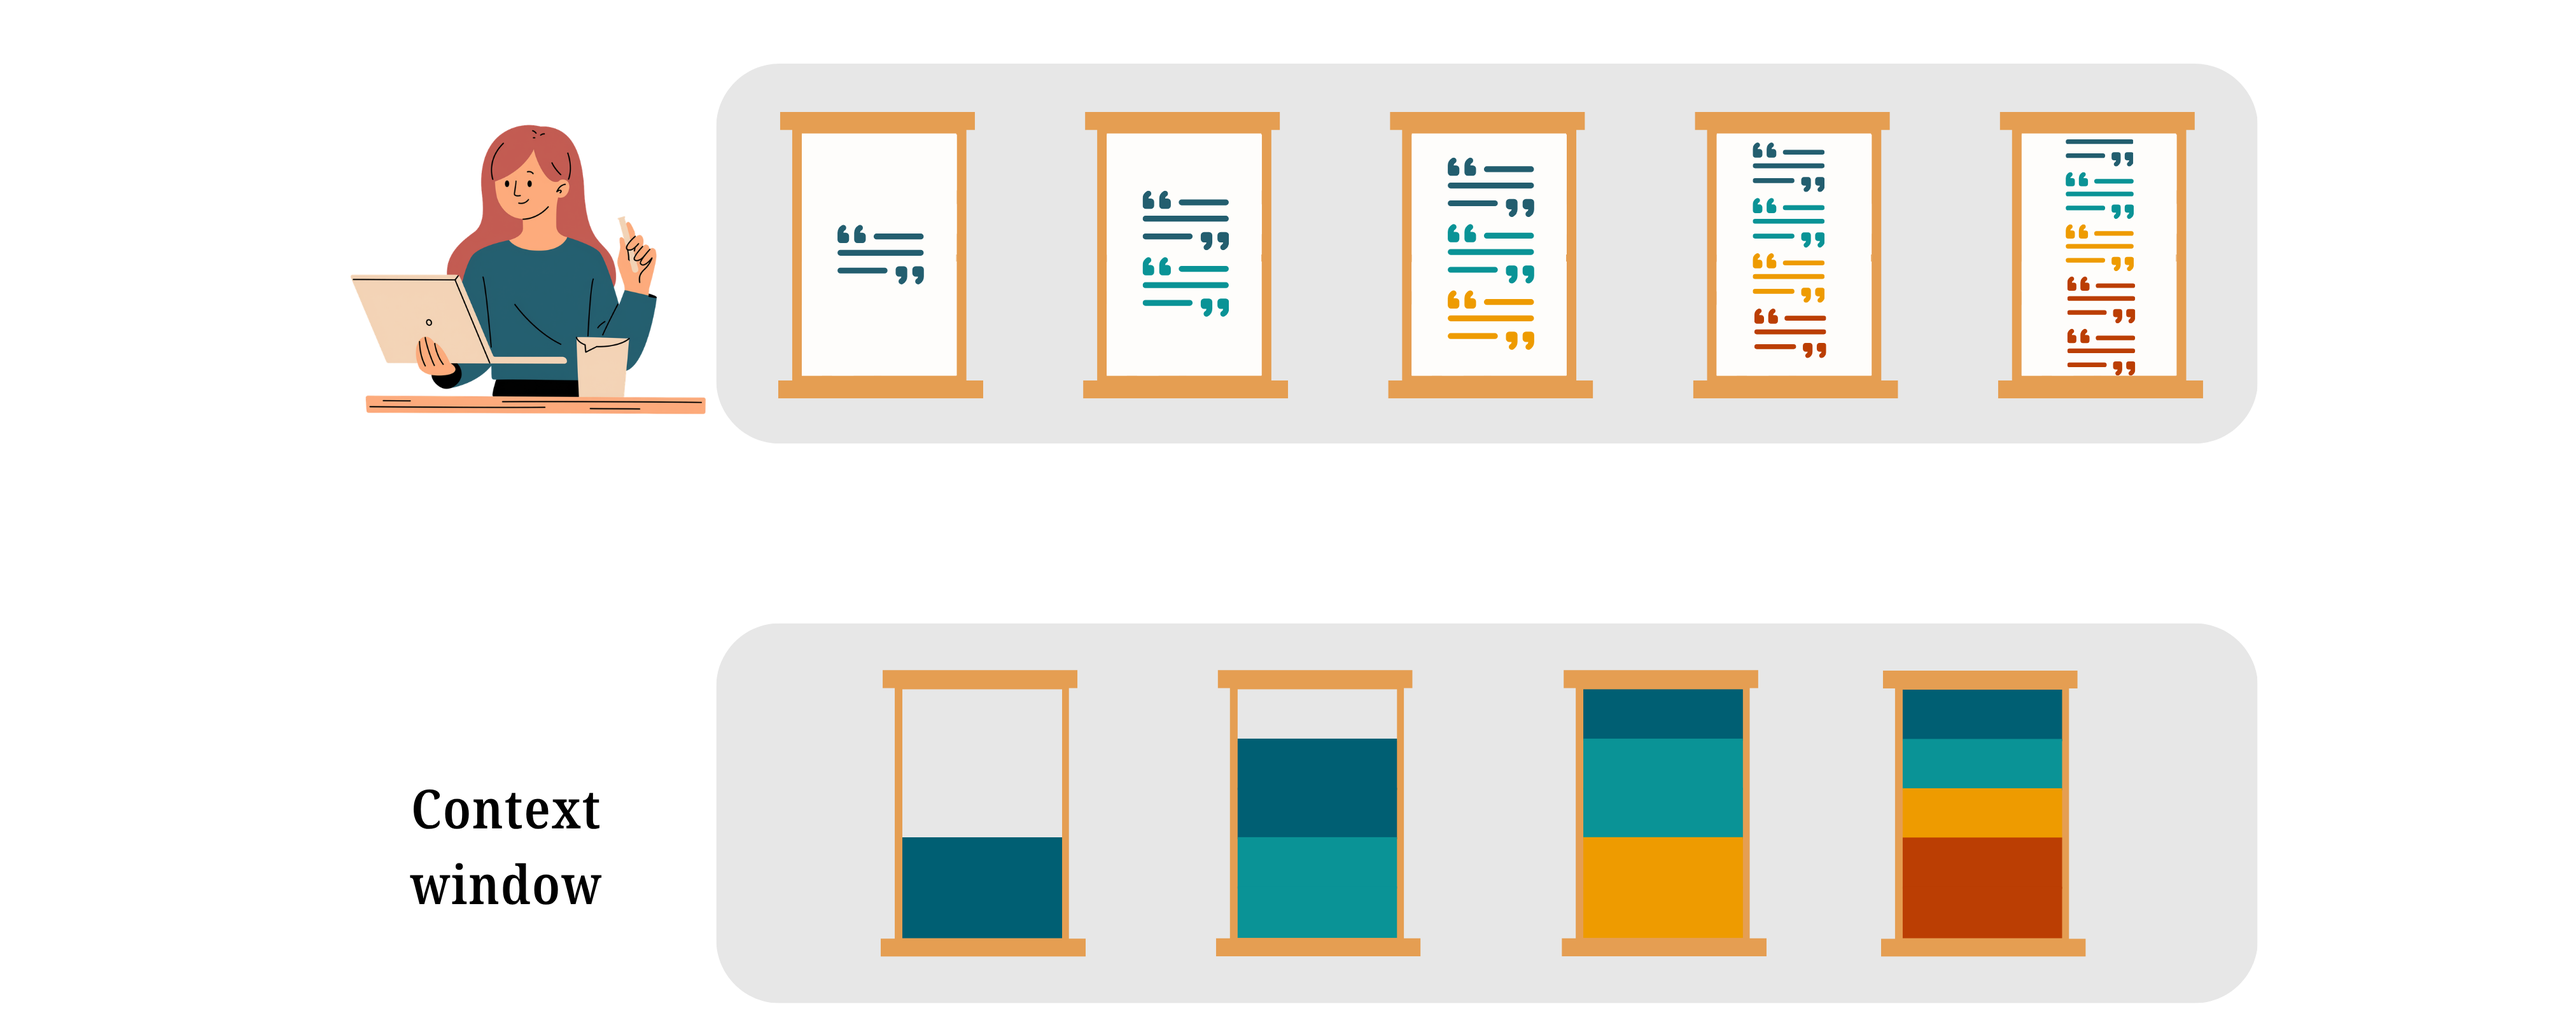
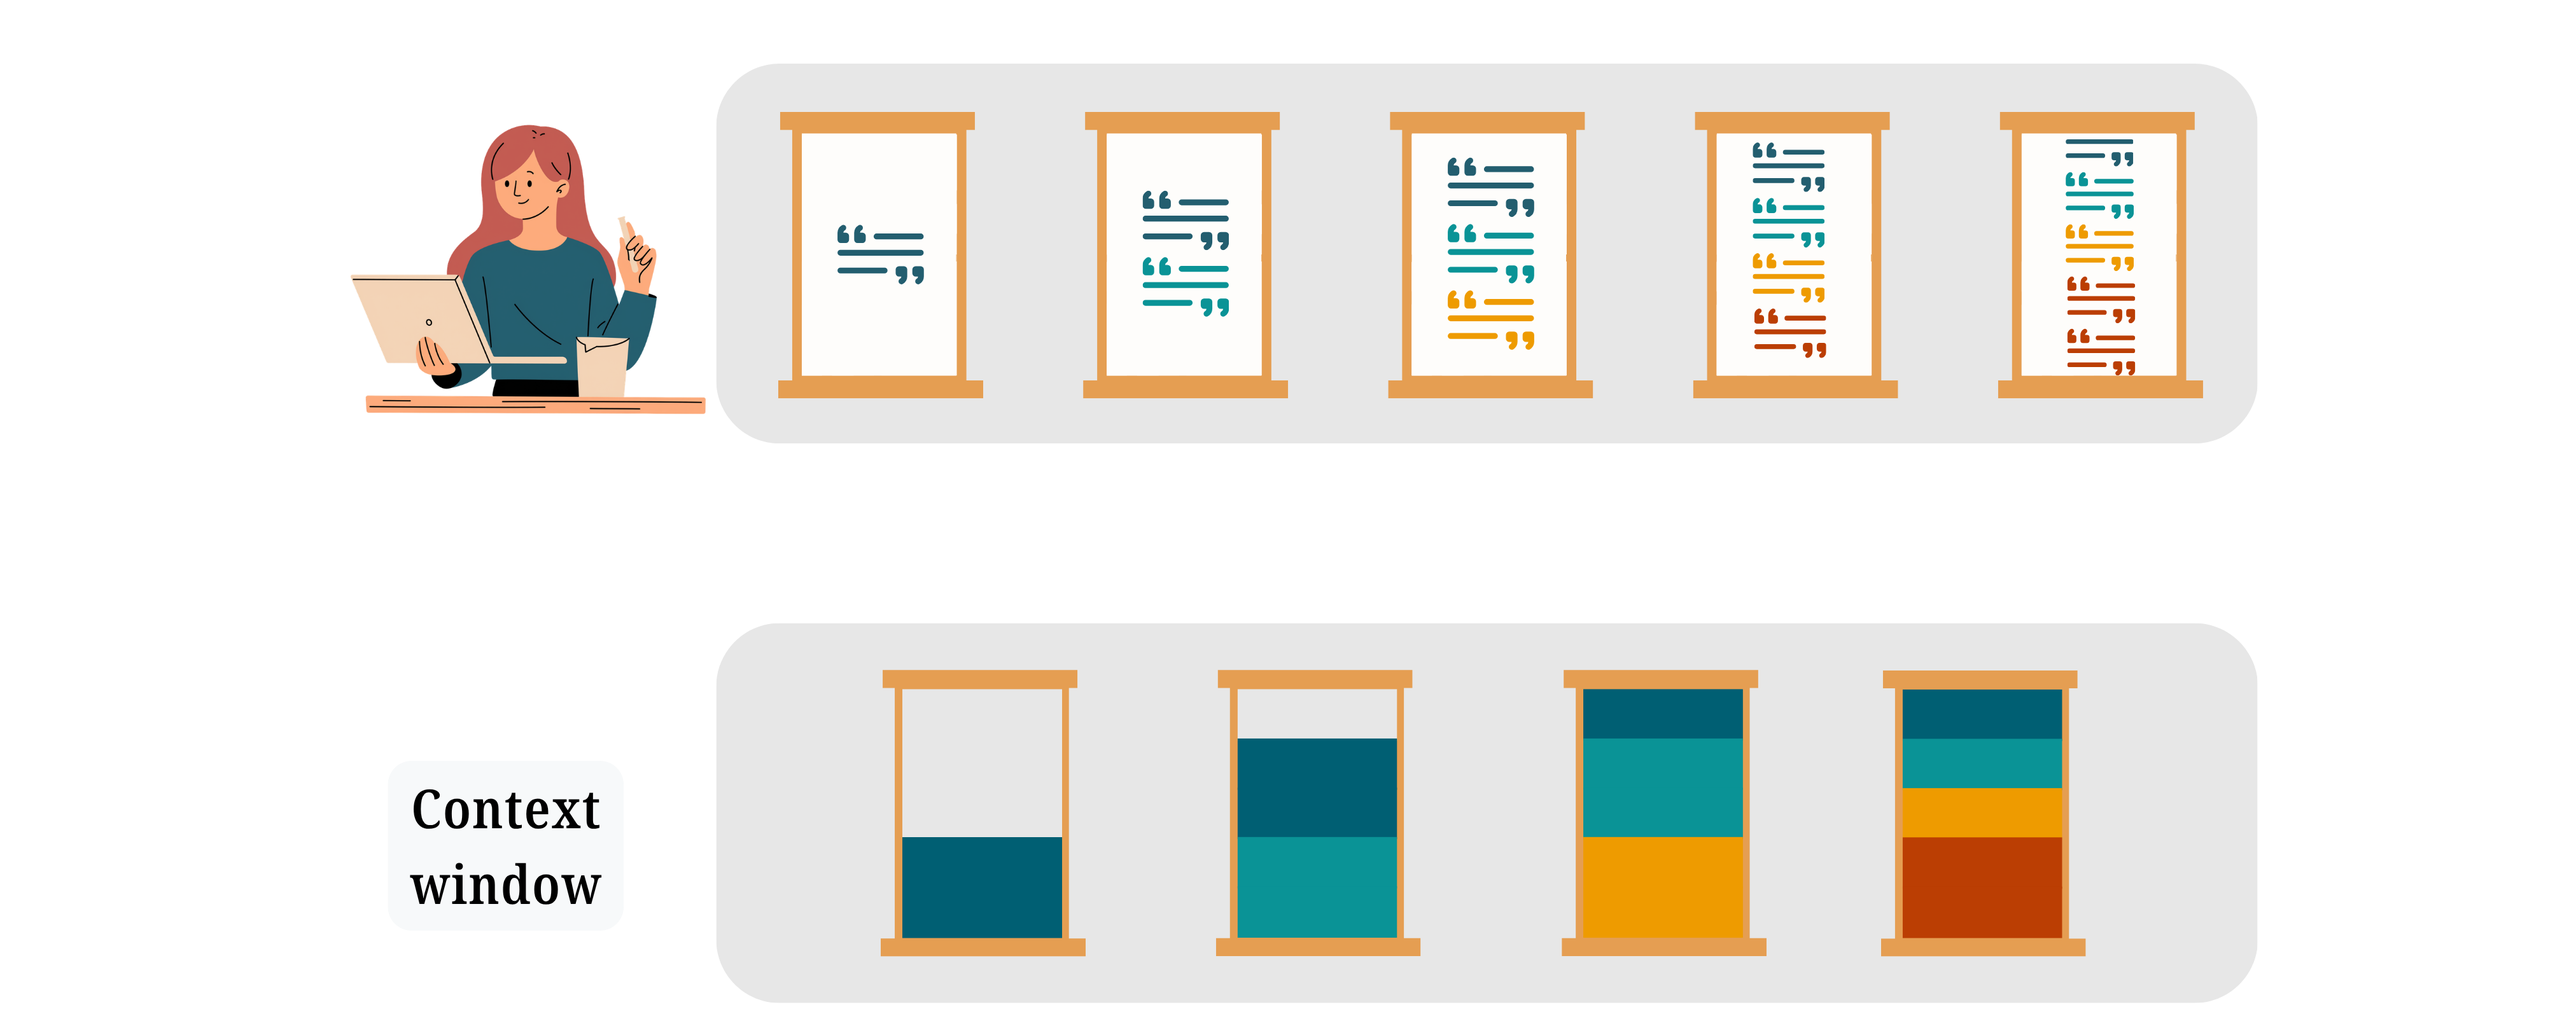
journals

diff --git a/src/styles/custom.css b/src/styles/custom.css
@@ -309,6 +309,20 @@ h6 {
 	border-color: var(--sl-color-strong);
 }
 
+/* O fundo desta seção é fixo nos dois modos (#deede7, ver regra acima),
+   mas os tokens de texto usados aqui (h2 e p) invertem entre claro/escuro
+   — no modo escuro isso deixava o texto quase branco sobre um fundo claro,
+   ilegível. Por isso os tokens são fixados aqui só para dentro de
+   .home-about, com os mesmos valores do bloco :root[data-theme='light'];
+   os tokens globais continuam intocados e livres para inverter
+   normalmente em qualquer outro lugar do site. */
+.home-about {
+	--sl-color-white: hsl(45, 30%, 10%);
+	--sl-color-gray-1: hsl(45, 20%, 16%);
+	--sl-color-gray-2: hsl(45, 14%, 26%);
+	--sl-color-highlight: hsl(30, 98%, 40%);
+}
+
 /* ======================================================
    INCIDENT CARDS (Real-World Incidents and future pages)
    Reusable template: header (icon+title), narrative body,
